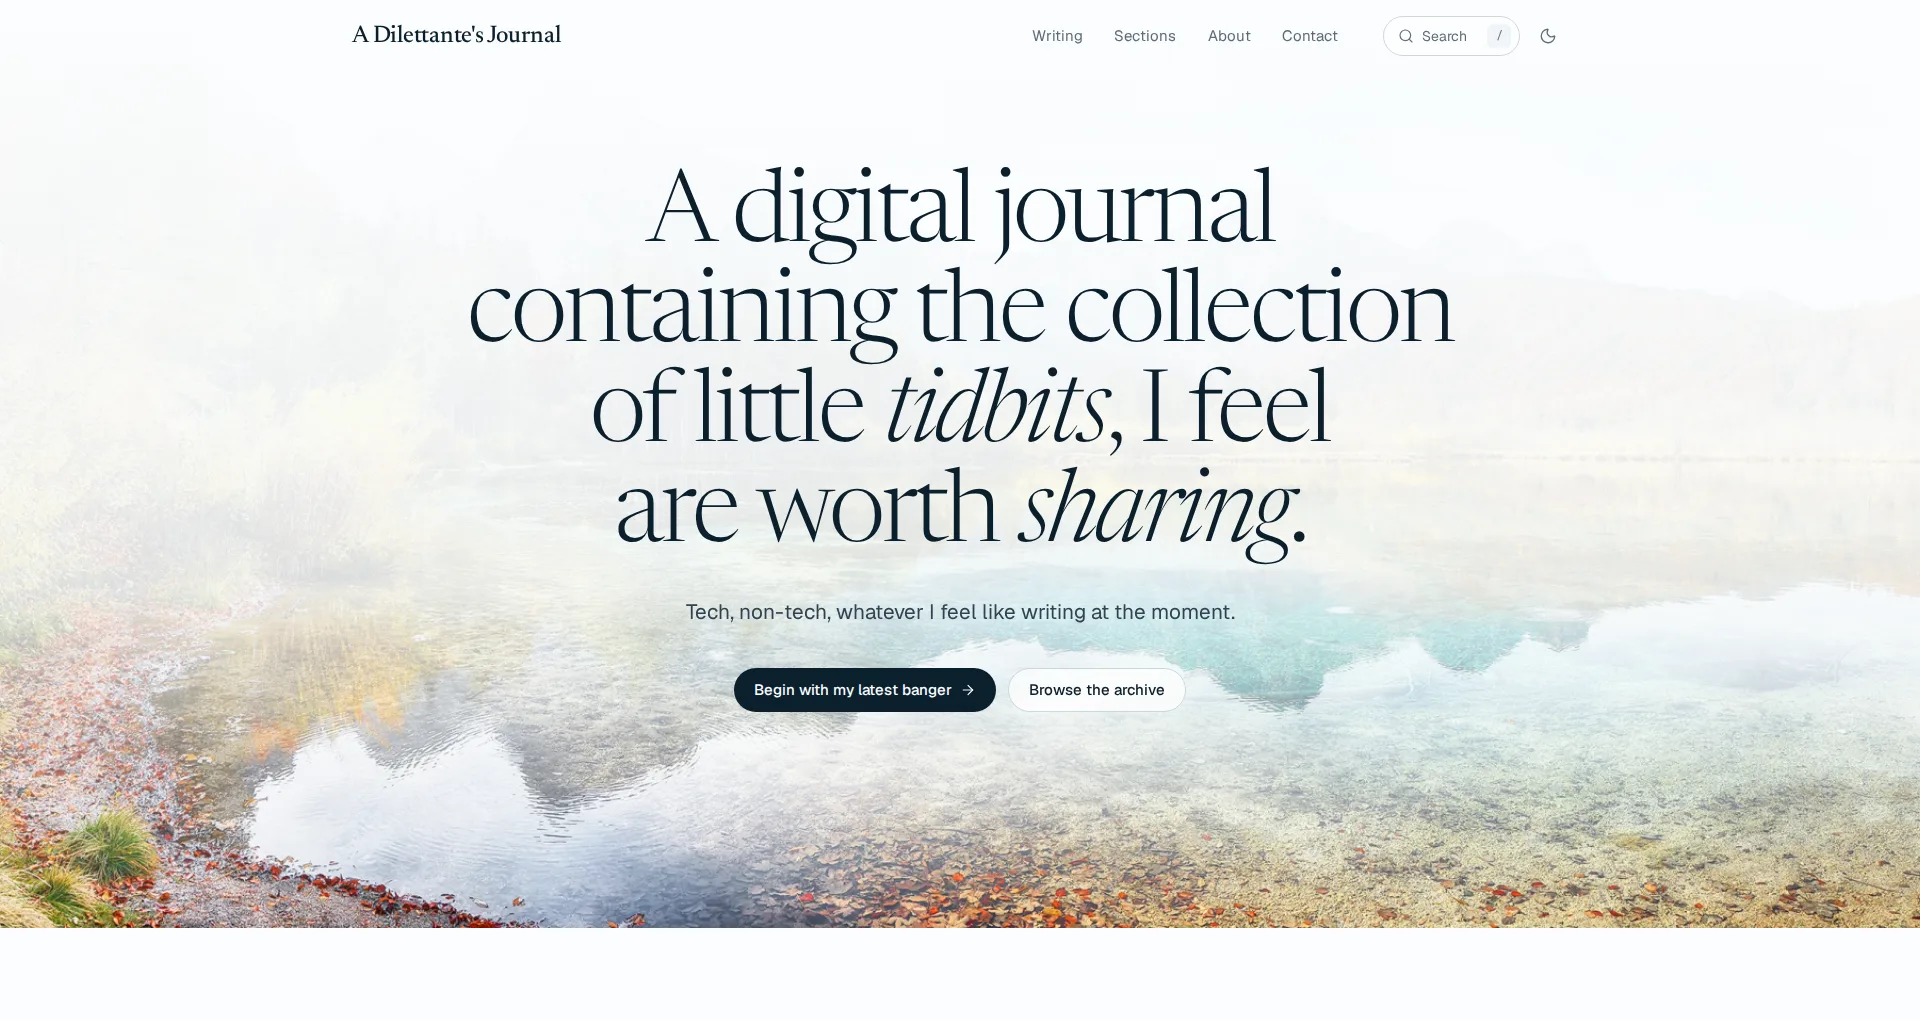
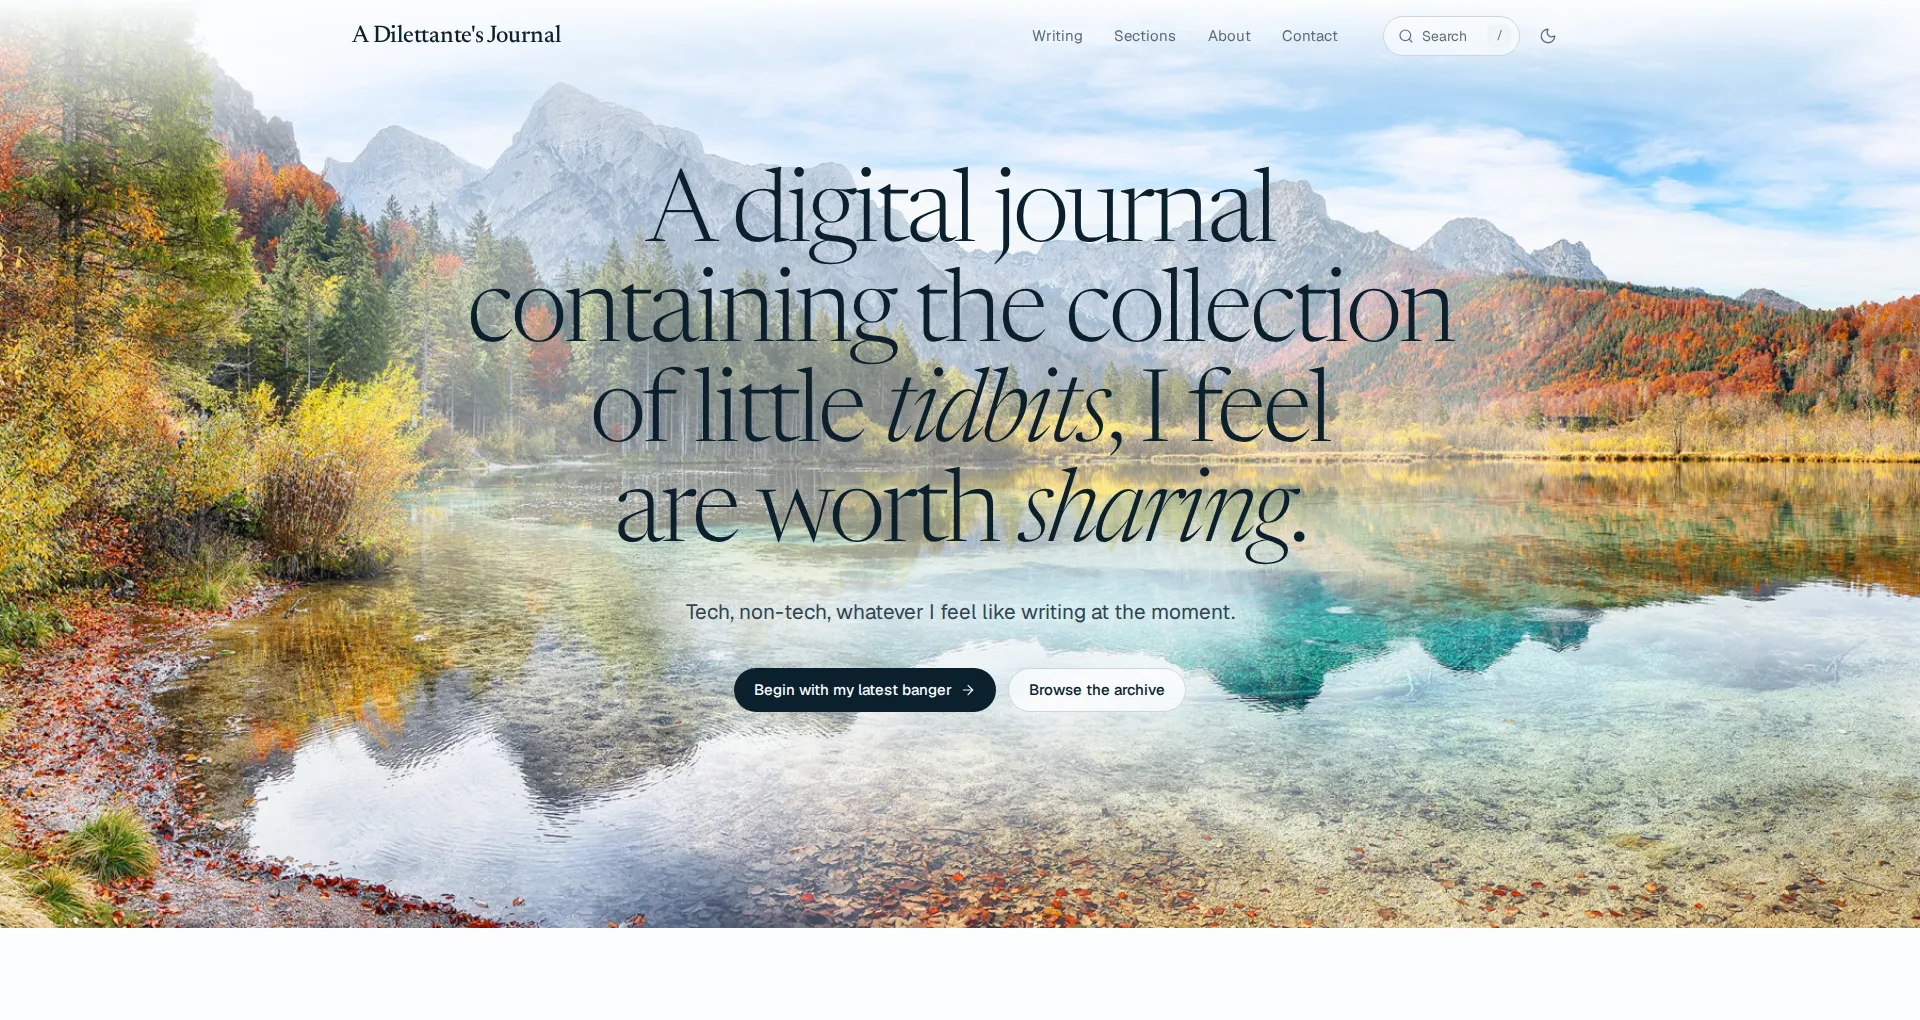
feat: lightened the hero overlay so the photo shows, with soft mist only behind the text

diff --git a/tests/e2e/hero.spec.ts b/tests/e2e/hero.spec.ts
@@ -1,0 +1,205 @@
+// The home page's hero: the mountain photo must be clearly visible, in light and dark mode, while
+// the headline, the lead line and both buttons stay easy to read. Contrast is measured the WCAG way,
+// against the real pixels behind each piece of text: the page is drawn with the text made
+// invisible, and every pixel under each line of text is compared with the text's colour. The
+// worst pixel counts. Pixels are read by Chromium only, so the other browsers skip these tests.
+import { expect, test, type Page } from "@playwright/test";
+import sharp from "sharp";
+
+type Rgb = [number, number, number];
+type Rect = { x: number; y: number; width: number; height: number };
+interface Target {
+  name: string;
+  minimum: number;
+  color: Rgb;
+  rects: Rect[];
+}
+
+// Relative luminance and contrast ratio, as WCAG 2 defines them.
+const channel = (value: number) => {
+  const c = value / 255;
+  return c <= 0.04045 ? c / 12.92 : ((c + 0.055) / 1.055) ** 2.4;
+};
+const luminance = ([r, g, b]: Rgb) =>
+  0.2126 * channel(r) + 0.7152 * channel(g) + 0.0722 * channel(b);
+const contrast = (a: Rgb, b: Rgb) => {
+  const [light, dark] = [luminance(a), luminance(b)].sort((x, y) => y - x);
+  return (light + 0.05) / (dark + 0.05);
+};
+const parseRgb = (css: string): Rgb => {
+  const [r, g, b] = css.match(/[\d.]+/g)!.map(Number);
+  return [r, g, b];
+};
+
+const shoot = async (page: Page) => {
+  const { data, info } = await sharp(
+    await page.screenshot({ fullPage: true, animations: "disabled" }),
+  )
+    .removeAlpha()
+    .raw()
+    .toBuffer({ resolveWithObject: true });
+  const at = (x: number, y: number): Rgb => {
+    const i = (y * info.width + x) * 3;
+    return [data[i], data[i + 1], data[i + 2]];
+  };
+  return { at, width: info.width, height: info.height };
+};
+
+const pixelsIn = (rect: Rect, width: number, height: number) => {
+  const points: [number, number][] = [];
+  for (let y = Math.max(0, Math.ceil(rect.y)); y < Math.min(height, rect.y + rect.height); y++)
+    for (let x = Math.max(0, Math.ceil(rect.x)); x < Math.min(width, rect.x + rect.width); x++)
+      points.push([x, y]);
+  return points;
+};
+
+const openHome = async (page: Page, scheme: "light" | "dark", width: number) => {
+  await page.emulateMedia({ colorScheme: scheme });
+  await page.setViewportSize({ width, height: 900 });
+  await page.goto("/");
+  await page.evaluate(() => document.fonts.ready);
+  // As a visitor sees it, once the text has risen into place.
+  await page.evaluate(() =>
+    Promise.all(document.getAnimations().map((animation) => animation.finished)),
+  );
+  await page
+    .locator("h1")
+    .locator("xpath=ancestor::section[1]")
+    .locator("img")
+    .first()
+    .evaluate((img: HTMLImageElement) => img.decode());
+};
+
+// Where each piece of hero text sits, line by line, and its colour.
+const targets = (page: Page) =>
+  page.evaluate(() => {
+    const hero = document.querySelector("h1")!.closest("section")!;
+    const linesOf = (element: Element) => {
+      const rects: { x: number; y: number; width: number; height: number }[] = [];
+      const walker = document.createTreeWalker(element, NodeFilter.SHOW_TEXT);
+      for (let node = walker.nextNode(); node; node = walker.nextNode()) {
+        if (!node.textContent?.trim()) continue;
+        const range = document.createRange();
+        range.selectNodeContents(node);
+        for (const rect of range.getClientRects())
+          rects.push({
+            x: rect.x + scrollX,
+            y: rect.y + scrollY,
+            width: rect.width,
+            height: rect.height,
+          });
+      }
+      return rects;
+    };
+    const target = (name: string, element: Element, minimum: number) => ({
+      name,
+      minimum,
+      color: getComputedStyle(element).color,
+      rects: linesOf(element),
+    });
+    return [
+      target("headline", hero.querySelector("h1")!, 3),
+      target("lead line", hero.querySelector("h1 + p")!, 4.5),
+      ...[...hero.querySelectorAll(".btn")].map((button, index) =>
+        target(`button ${index + 1}`, button, 4.5),
+      ),
+    ];
+  });
+
+const hideText = (page: Page) =>
+  page.addStyleTag({
+    content: `section:has(> div > h1) :is(h1, h1 *, p, .btn, .btn *) {
+      color: transparent !important; -webkit-text-fill-color: transparent !important; }`,
+  });
+
+for (const scheme of ["light", "dark"] as const) {
+  for (const width of [1440, 390]) {
+    test(`the hero's text is easy to read over the photo, in ${scheme} mode at ${width} pixels`, async ({
+      page,
+      browserName,
+    }) => {
+      test.skip(browserName !== "chromium", "Pixels are read in Chromium only.");
+      await openHome(page, scheme, width);
+      const pieces: Target[] = (await targets(page)).map((piece) => ({
+        ...piece,
+        color: parseRgb(piece.color),
+      }));
+      expect(pieces.length).toBe(4);
+      // Nothing is drawn over the text: every line still has pixels in the text's own colour.
+      const drawn = await shoot(page);
+      for (const piece of pieces)
+        for (const rect of piece.rects) {
+          let nearest = Infinity;
+          for (const [x, y] of pixelsIn(rect, drawn.width, drawn.height)) {
+            const pixel = drawn.at(x, y);
+            nearest = Math.min(
+              nearest,
+              Math.max(...pixel.map((v, c) => Math.abs(v - piece.color[c]))),
+            );
+          }
+          expect(nearest, `${piece.name}, the line at ${Math.round(rect.y)}`).toBeLessThanOrEqual(
+            12,
+          );
+        }
+      await hideText(page);
+      const shot = await shoot(page);
+      const results = pieces.map((piece) => {
+        let worst = Infinity;
+        for (const rect of piece.rects)
+          for (const [x, y] of pixelsIn(rect, shot.width, shot.height))
+            worst = Math.min(worst, contrast(piece.color, shot.at(x, y)));
+        return { name: piece.name, minimum: piece.minimum, worst: Math.round(worst * 100) / 100 };
+      });
+      console.log(`${scheme} ${width}px`, JSON.stringify(results));
+      for (const result of results)
+        expect(result.worst, `${result.name}: ${result.worst}:1`).toBeGreaterThanOrEqual(
+          result.minimum,
+        );
+    });
+
+    test(`the photo shows clearly, in ${scheme} mode at ${width} pixels`, async ({
+      page,
+      browserName,
+    }) => {
+      test.skip(browserName !== "chromium", "Pixels are read in Chromium only.");
+      await openHome(page, scheme, width);
+      await hideText(page);
+      const box = await page.evaluate(() => {
+        const rect = document.querySelector("h1")!.closest("section")!.getBoundingClientRect();
+        return {
+          rect: {
+            x: rect.x + scrollX,
+            y: rect.y + scrollY,
+            width: rect.width,
+            height: rect.height,
+          },
+          canvas: getComputedStyle(document.body).backgroundColor,
+        };
+      });
+      const canvas = parseRgb(box.canvas);
+      const drawn = await shoot(page);
+      // The bare photo: everything in the hero but the photo hidden, overlays included, and no
+      // dimming.
+      await page.addStyleTag({
+        content: `section:has(> div > h1) > :not(picture, img) { visibility: hidden !important; }
+          section:has(> div > h1) img { filter: none !important; }`,
+      });
+      const bare = await shoot(page);
+      // How far each pixel is from a blank page, drawn as it is, against the bare photo: the share
+      // of the photo that shows through.
+      let shown = 0;
+      let full = 0;
+      for (const [x, y] of pixelsIn(box.rect, drawn.width, drawn.height)) {
+        const a = drawn.at(x, y);
+        const b = bare.at(x, y);
+        for (let c = 0; c < 3; c++) {
+          shown += Math.abs(a[c] - canvas[c]);
+          full += Math.abs(b[c] - canvas[c]);
+        }
+      }
+      const share = Math.round((shown / full) * 100) / 100;
+      console.log(`${scheme} ${width}px photo shows`, share);
+      expect(share).toBeGreaterThanOrEqual(0.6);
+    });
+  }
+}

diff --git a/README.md b/README.md
@@ -115,7 +115,7 @@ Then open an old post: its comments must still be there. And log in to Rybbit wi
 
 **When something changes**
 
-- New headline or hero photo: `pnpm build`, then `pnpm run share` (in the toolbox on Fedora) redraws the share image (`public/og-image.png`), the screenshot above and the GitHub social preview (`../github-social-preview.png`, uploaded by hand in the repository's Settings, Social preview).
+- New headline or hero photo: `pnpm build`, then `pnpm run share` (in the toolbox on Fedora) redraws the share image (`public/og-image.png`), the screenshot above and the GitHub social preview (`../github-social-preview.png`, uploaded by hand in the repository's Settings, Social preview). It stops if any text would be hard to read on the photo.
 - New picture in a post: nothing to do. Every build saves each picture as JPEG XL, AVIF and its own format, and serves the smallest. The first build after a new picture takes a little longer; the results are kept in `node_modules/.cache`.
 - Every page's address ends in a slash. `server.mjs` starts the blog and sends old addresses without the slash to the new ones, so it is the start command (`pnpm start`, and `railpack.json` for Dokploy). It calls Node directly, because the finished Railpack image has no pnpm.
 
